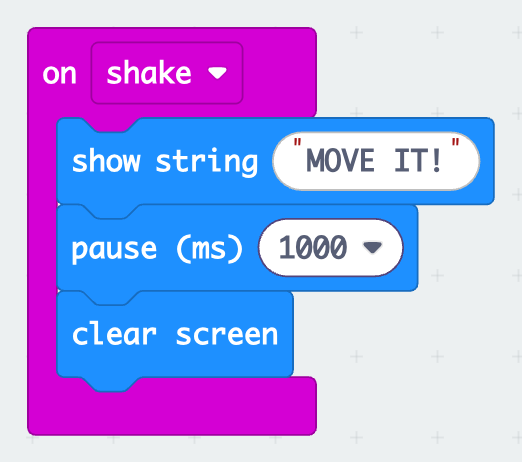
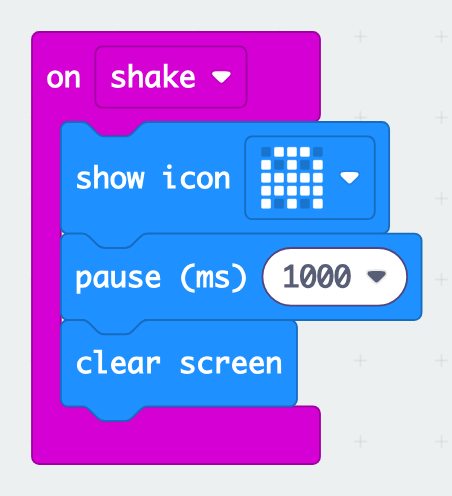
KS3 DT: CLEAR AUDIT BLOCKER 3 - L2 Rung 4 now teaches an effect the device actually produces.
Measured in the MakeCode simulator (probe-microbit-showstring.js): a multi-character 'show string' scrolls OFF and leaves the display blank, so the taught pause+clear were unobservable and three different programs were indistinguishable. Replaced the scrolling string with 'show icon' - with the pause the ghost holds ~800ms then clears; with the pause DELETED it never renders at all (0 LEDs across a 100ms-sampled run). The rung's fail state goes from invisible to the starkest in the ladder, and its hint becomes true.

Chose the GHOST icon, not the heart: Rung 2 already shows a heart on button A, so a heart here would have read as a repeat (caught by a false-positive in my own harness). Rung retitled 'The Vanishing Ghost'.

Updated together so nothing contradicts: rung title/target/test/hint (test now instructs pupils to DELETE the pause and see nothing, then restore it); rung4.png regenerated from the real editor (make-rung4-image.js, verified by block text); exit Parsons prompt + block + explain (block positions unchanged so the Lehmer key a:10 still marks correct - re-verified live); recap r-203 stem, all four options, key explain and misconception labels. contentVersion 2026-07-26b.
[…]

Changed region(s): [[0.031, 0.0606, 0.9602, 0.9697]]

diff --git a/ks3-dt/tools/record-tutorial/qa-l2-rung4.js b/ks3-dt/tools/record-tutorial/qa-l2-rung4.js
@@ -1,0 +1,122 @@
+/* Verify the Rung 4 icon fix in the running platform (audit blocker 3).
+   Checks the pupil actually sees the corrected rung, its image, and that the
+   exit Parsons still marks the SAME key correct after the block text swap.
+   Usage: node qa-l2-rung4.js */
+const { chromium } = require('./node_modules/playwright');
+const path = require('path');
+const fs = require('fs');
+const OUT = path.join(process.env.HOME, 'Desktop/Claude Work/KS3 DT Platform/qa-j1-audit');
+fs.mkdirSync(OUT, { recursive: true });
+const URL = 'http://localhost:8096/ks3-dt/platform/index.html?class=Demo-8A&as=anya';
+const sleep = ms => new Promise(r => setTimeout(r, ms));
+const FAILS = [];
+const check = (c, m) => { console.log((c ? '  PASS ' : '  FAIL ') + m); if (!c) FAILS.push(m); };
+
+(async () => {
+  const browser = await chromium.launch({ headless: true });
+  const page = await browser.newPage({ viewport: { width: 1440, height: 900 }, deviceScaleFactor: 2 });
+  const errs = [];
+  page.on('console', m => { if (m.type() === 'error') errs.push(m.text()); });
+  page.on('pageerror', e => errs.push('PAGEERROR ' + e.message));
+
+  await page.goto(URL, { waitUntil: 'domcontentloaded' });
+  await sleep(1500);
+  await page.evaluate(() => localStorage.clear());       // also drops stale ks3dt-content:* caches
+  await page.reload({ waitUntil: 'domcontentloaded' });
+  await sleep(2200);
+  await page.evaluate(() => {
+    const db = JSON.parse(localStorage.getItem('ks3dt-dev'));
+    const now = Math.floor((Date.now() - 1767225600000) / 60000);
+    for (const n of ['1', '2']) db.locks['Demo-8A'][n] = { u: now, on: 1 };
+    localStorage.setItem('ks3dt-dev', JSON.stringify(db));
+  });
+  await page.reload({ waitUntil: 'domcontentloaded' });
+  await sleep(2600);
+  await page.evaluate(() => { const b = document.querySelector('.intro-skip, .intro-overlay button'); if (b) b.click(); });
+  await sleep(600);
+
+  const ver = await page.evaluate(() => window.App.state.contentVersion);
+  console.log('  contentVersion in app:', ver);
+
+  await page.evaluate(() => Array.from(document.querySelectorAll('.tile')).find(e => /Make It Move/i.test(e.textContent)).click());
+  await sleep(2200);
+
+  /* walk to the ladder */
+  let sawLadder = false;
+  for (let i = 0; i < 70; i++) {
+    const st = await page.evaluate(() => {
+      if (document.querySelector('.rung, [class*="rung"]')) return 'ladder';
+      const pop = document.querySelector('.badge-pop button'); if (pop) { pop.click(); return 'pop'; }
+      const h = document.querySelector('.chunk-host'); if (!h) return 'none';
+      const cta = h.querySelector('.dossier-cta'); if (cta && !cta.hidden) { cta.click(); return 'cta'; }
+      const sk = h.querySelector('.dossier-skip'); if (sk) { sk.click(); return 'skip'; }
+      const vid = Array.from(h.querySelectorAll('button')).find(b => /Done watching/i.test(b.textContent) && b.offsetParent);
+      if (vid) { vid.click(); return 'video'; }
+      const opt = h.querySelector('.q-opt:not(:disabled)'); if (opt) { opt.click(); return 'a'; }
+      const nxt = Array.from(h.querySelectorAll('button')).find(b => /Next|Finish|Start|Continue|Warm up|Begin|Ready/i.test(b.textContent) && !b.disabled && b.offsetParent);
+      if (nxt) { nxt.click(); return 'n'; }
+      return 'w';
+    });
+    if (st === 'ladder') { sawLadder = true; break; }
+    await sleep(800);
+  }
+  check(sawLadder, 'reached the Signal Relay Ladder');
+
+  /* climb: the ladder opens on an intro card, then one rung at a time.
+     Advance until Rung 4's card is the one on screen. */
+  let onRung4 = false;
+  for (let i = 0; i < 40; i++) {
+    const txt = await page.evaluate(() => (document.querySelector('.chunk-host') || {}).textContent || '');
+    if (/Vanishing Ghost/.test(txt)) { onRung4 = true; break; }
+    await page.evaluate(() => {
+      const h = document.querySelector('.chunk-host');
+      if (!h) return;
+      const btn = Array.from(h.querySelectorAll('button')).find(b =>
+        !b.disabled && b.offsetParent &&
+        /Start climbing|Next rung|Got it|We did it|Done|Continue|Nailed it|It works|It worked on the device/i.test(b.textContent) &&
+        !/hint|stuck|help/i.test(b.textContent));
+      if (btn) { btn.click(); return; }
+      const conf = h.querySelector('.confirm-step:not(:disabled)');
+      if (conf) conf.click();
+    });
+    await sleep(750);
+  }
+  check(onRung4, 'climbed to Rung 4');
+  await page.screenshot({ path: path.join(OUT, 'l2-rung4-card.png'), fullPage: true });
+
+  const body = await page.evaluate(() => (document.querySelector('.chunk-host') || {}).textContent || '');
+  check(/Vanishing Ghost/.test(body), 'Rung 4 is titled "The Vanishing Ghost"');
+  check(!/MOVE IT!/.test(body), 'the old "MOVE IT!" string is gone from the ladder');
+  check(/ghost icon/i.test(body), 'the rung asks for the GHOST icon (not Rung 2\'s heart)');
+  check(!/the words wipe/i.test(body), 'the false "the words wipe" claim is gone');
+
+  /* the regenerated image is actually referenced and loads */
+  const img = await page.evaluate(async () => {
+    const el = Array.from(document.querySelectorAll('img')).find(i => /rung4\.png/.test(i.src));
+    if (!el) return null;
+    await new Promise(r => { if (el.complete) return r(); el.onload = r; el.onerror = r; });
+    return { src: el.src, w: el.naturalWidth, h: el.naturalHeight };
+  });
+  check(!!img && img.w > 0, 'rung4.png loads in the rung card' + (img ? ' (' + img.w + 'x' + img.h + ')' : ''));
+  await page.screenshot({ path: path.join(OUT, 'l2-rung4-fixed.png'), fullPage: true });
+
+  /* Parsons: same key (a:10), new block text - build the correct order and expect Correct */
+  const parsons = await page.evaluate(async () => {
+    const r = await window.App.call('mark', { lessonId: 'j1-02', itemId: 'ex2-p', choice: 10 });
+    return r;
+  });
+  check(parsons && parsons.ok && parsons.correct === true, 'exit Parsons still marks a:10 CORRECT after the block swap');
+  check(/ghost/i.test((parsons && parsons.explain) || ''), 'parsons explanation matches the new ghost program');
+
+  /* r-203 marks the new option 0 correct and no longer claims a scroll */
+  const recap = await page.evaluate(async () => window.App.call('mark', { lessonId: 'j1-02', itemId: 'r-203', choice: 0 }));
+  const recapOk = recap && recap.ok;
+  check(!recapOk || recap.correct === true, 'recap r-203: option 0 is the keyed answer' + (recapOk ? '' : ' (not markable via lesson route - checked in dev-keys instead)'));
+
+  const realErrs = errs.filter(e => !/l2-tutorial|\.mp4|poster/.test(e));
+  check(realErrs.length === 0, 'zero console errors: ' + JSON.stringify(realErrs.slice(0, 3)));
+
+  console.log('\n' + (FAILS.length ? 'FAILURES:\n- ' + FAILS.join('\n- ') : 'ALL RUNG 4 CHECKS PASSED'));
+  await browser.close();
+  process.exit(FAILS.length ? 1 : 0);
+})().catch(e => { console.error('QA CRASHED:', e.message); process.exit(1); });

diff --git a/ks3-dt/tools/record-tutorial/probe-microbit-showstring.js b/ks3-dt/tools/record-tutorial/probe-microbit-showstring.js
@@ -22,8 +22,21 @@ const OUT = path.join(process.env.HOME, 'Desktop/Claude Work/KS3 DT Platform/qa-
 fs.mkdirSync(OUT, { recursive: true });
 const HEADED = process.argv.includes('--headed');
 
+/* --set icon : the PROPOSED replacement for Rung 3 - is the pause
+   observably load-bearing when the display block is an ICON rather than a
+   scrolling string? (showIcon renders and returns; we need to know how long
+   the heart actually survives with and without the explicit pause.) */
+const ICON_VARIANTS = [
+  { id: 'E-icon-only', label: 'show icon heart only (nothing after it)',
+    code: 'basic.showIcon(IconNames.Heart)\n' },
+  { id: 'F-icon-pause-clear', label: 'show icon + pause 1000 + clear screen  <-- PROPOSED correct answer',
+    code: 'basic.showIcon(IconNames.Heart)\nbasic.pause(1000)\nbasic.clearScreen()\n' },
+  { id: 'G-icon-clear-nopause', label: 'show icon + clear screen (pause DELETED) <-- the fail state pupils must see',
+    code: 'basic.showIcon(IconNames.Heart)\nbasic.clearScreen()\n' }
+];
+
 /* the exact programs L2 Rung 3 distinguishes between */
-const VARIANTS = [
+const STRING_VARIANTS = [
   { id: 'A-showstring-only', label: 'show string only (no pause, no clear)',
     code: 'basic.showString("HELLO")\n' },
   { id: 'B-taught-answer', label: 'show string + pause 1000 + clear screen  <-- what L2 teaches as CORRECT',
@@ -34,8 +47,11 @@ const VARIANTS = [
     code: 'basic.showString("A")\n' }
 ];
 
+const VARIANTS = process.argv.includes('--set') && process.argv[process.argv.indexOf('--set') + 1] === 'icon'
+  ? ICON_VARIANTS : STRING_VARIANTS;
+
 const SAMPLE_MS = 100;
-const RUN_MS = 14000;
+const RUN_MS = process.argv.includes('--set') ? 8000 : 14000;
 
 async function readLeds(drv) {
   const f = drv.simFrame();
@@ -100,6 +116,8 @@ async function readLeds(drv) {
     const tailMaxLit = Math.max(...tail.map(s => s.lit));
     const tailMaxBright = Math.max(...tail.map(s => s.b));
 
+    const litSamples = series.filter(s => s.lit > 0).length;
+    const litMs = litSamples * SAMPLE_MS;
     const verdict = tailMaxLit === 0
       ? 'DISPLAY ENDS BLANK'
       : 'DISPLAY STILL SHOWING (' + tailMaxLit + ' LEDs)';
@@ -109,10 +127,11 @@ async function readLeds(drv) {
     log('  first lit at         :', firstLit ? firstLit.t + 'ms' : 'never');
     log('  last lit at          :', lastLit ? lastLit.t + 'ms' : 'never');
     log('  final 3s: max lit    :', tailMaxLit, '| max brightness', tailMaxBright);
+    log('  total time lit       : ~' + litMs + 'ms');
     log('  VERDICT              :', verdict);
 
     await page.screenshot({ path: path.join(OUT, 'microbit-' + v.id + '-end.png') });
-    results.push({ id: v.id, label: v.label, ledCount, peak,
+    results.push({ id: v.id, label: v.label, ledCount, peak, litMs,
       firstLitMs: firstLit ? firstLit.t : null, lastLitMs: lastLit ? lastLit.t : null,
       tailMaxLit, tailMaxBright, verdict, series });
   }
@@ -121,7 +140,8 @@ async function readLeds(drv) {
 
   console.log('\n================ SUMMARY ================');
   for (const r of results) {
-    console.log(r.id.padEnd(20), '| peak lit', String(r.peak).padStart(2),
+    console.log(r.id.padEnd(22), '| peak lit', String(r.peak).padStart(2),
+      '| lit for ~' + String(r.litMs).padStart(5) + 'ms',
       '| last lit', String(r.lastLitMs).padStart(6) + 'ms',
       '|', r.verdict);
   }
@@ -135,6 +155,13 @@ async function readLeds(drv) {
     console.log('So the pause+clear are     ', identical ? 'UNOBSERVABLE (audit blocker CONFIRMED)' : 'observable (audit blocker NOT confirmed)');
   }
   if (d) console.log('Single character "A"       ', d.tailMaxLit > 0 ? 'STAYS on the display (' + d.tailMaxLit + ' LEDs) - persists, unlike a scrolled string' : 'also ends blank');
+  const f2 = results.find(r => r.id === 'F-icon-pause-clear');
+  const g2 = results.find(r => r.id === 'G-icon-clear-nopause');
+  if (f2 && g2) {
+    const diff = f2.litMs - g2.litMs;
+    console.log('\nICON PROPOSAL: with pause the heart is lit ~' + f2.litMs + 'ms; with the pause DELETED ~' + g2.litMs + 'ms.');
+    console.log('Difference: ~' + diff + 'ms - ' + (diff >= 600 ? 'CLEARLY VISIBLE to a pupil. The pause is genuinely load-bearing.' : 'TOO SMALL - this replacement would have the same flaw.'));
+  }
   console.log('\nScreenshots + raw series in', OUT);
 
   await browser.close();

diff --git a/ks3-dt/tools/record-tutorial/make-rung4-image.js b/ks3-dt/tools/record-tutorial/make-rung4-image.js
@@ -1,0 +1,65 @@
+/* Regenerate assets/img/l2/rung4.png for L2's "Rung 4 — The Vanishing Heart".
+   The old image showed `show string "MOVE IT!"`, which the 26 Jul audit found
+   teaches an effect the device does not produce (a scrolled string clears
+   itself, so the pause+clear are invisible). The rung now uses show icon,
+   where deleting the pause genuinely shows the pupil nothing.
+   Usage: node make-rung4-image.js */
+const path = require('path');
+const { chromium } = require('./node_modules/playwright');
+const { MakeCode, sleep } = require('./lib/driver');
+
+const OUT = path.join(__dirname, '..', '..', 'platform', 'assets', 'img', 'l2', 'rung4.png');
+const CODE = 'input.onGesture(Gesture.Shake, function () {\n' +
+  '    basic.showIcon(IconNames.Ghost)\n' +
+  '    basic.pause(1000)\n' +
+  '    basic.clearScreen()\n' +
+  '})\n';
+
+(async () => {
+  const browser = await chromium.launch({ headless: true });
+  const page = await browser.newPage({ viewport: { width: 1500, height: 950 }, deviceScaleFactor: 2 });
+  const log = (...a) => console.log('[img]', ...a);
+  const drv = new MakeCode(page, log);
+
+  await drv.openEditor();
+  await sleep(4000);
+  await drv.dismissDialogs();
+  await drv.setProgram(CODE);      // leaves the editor on the Blocks tab
+  await sleep(3500);
+  await drv.dismissDialogs();
+
+  /* the on-shake stack is the only top-level block once the default
+     on-start/forever have been replaced by setProgram */
+  const box = await page.evaluate(() => {
+    const stacks = Array.from(document.querySelectorAll('.blocklyBlockCanvas > g.blocklyDraggable'))
+      .filter(g => !g.closest('.blocklyFlyout'));
+    let best = null;
+    for (const g of stacks) {
+      const r = g.getBoundingClientRect();
+      if (r.width < 60 || r.height < 40) continue;
+      if (!best || r.width * r.height > best.w * best.h) best = { x: r.x, y: r.y, w: r.width, h: r.height };
+    }
+    return best;
+  });
+  if (!box) throw new Error('no block stack found on the canvas');
+  log('stack bbox', JSON.stringify(box));
+
+  const pad = 16;
+  await page.screenshot({
+    path: OUT,
+    clip: { x: Math.max(0, box.x - pad), y: Math.max(0, box.y - pad), width: box.w + pad * 2, height: box.h + pad * 2 }
+  });
+  log('wrote', OUT);
+
+  /* prove the rendered blocks say what we think they say */
+  const text = await page.evaluate(() => {
+    const norm = s => (s || '').replace(/[- ]/g, ' ').replace(/\s+/g, ' ').trim();
+    return Array.from(document.querySelectorAll('.blocklyBlockCanvas .blocklyText')).map(e => norm(e.textContent)).join(' | ');
+  });
+  log('block text:', text);
+  const ok = /shake/i.test(text) && /pause/i.test(text) && /clear screen/i.test(text) && !/show string/i.test(text);
+  console.log(ok ? 'VERIFIED: on shake + icon + pause + clear screen, no show string'
+                 : 'WARNING: unexpected block text - check the image by eye');
+  await browser.close();
+  process.exit(ok ? 0 : 1);
+})().catch(e => { console.error('IMAGE BUILD FAILED:', e.message); process.exit(1); });

diff --git a/ks3-dt/platform/server/PathB_Index.html b/ks3-dt/platform/server/PathB_Index.html
@@ -2409,7 +2409,14 @@ window.OLS_TRANSPORT = {
   };
   App.toast = function (msg, ms) {
     var t = $('#toast');
-    t.textContent = msg; t.hidden = false;
+    /* Engine sources are ASCII, so callers write copy as HTML entities
+       (&mdash;, &#127914;). textContent showed those raw on screen - pupils
+       literally read "Rung cleared &mdash; signal locked in." Decode via a
+       detached TEXTAREA: its content is raw text, so entities resolve but no
+       markup is ever built, and we still assign with textContent. */
+    var dec = document.createElement('textarea');
+    dec.innerHTML = String(msg == null ? '' : msg);
+    t.textContent = dec.value; t.hidden = false;
     clearTimeout(t._timer);
     t._timer = setTimeout(function () { t.hidden = true; }, ms || 2600);
   };

diff --git a/ks3-dt/platform/app.js b/ks3-dt/platform/app.js
@@ -436,7 +436,14 @@
   };
   App.toast = function (msg, ms) {
     var t = $('#toast');
-    t.textContent = msg; t.hidden = false;
+    /* Engine sources are ASCII, so callers write copy as HTML entities
+       (&mdash;, &#127914;). textContent showed those raw on screen - pupils
+       literally read "Rung cleared &mdash; signal locked in." Decode via a
+       detached TEXTAREA: its content is raw text, so entities resolve but no
+       markup is ever built, and we still assign with textContent. */
+    var dec = document.createElement('textarea');
+    dec.innerHTML = String(msg == null ? '' : msg);
+    t.textContent = dec.value; t.hidden = false;
     clearTimeout(t._timer);
     t._timer = setTimeout(function () { t.hidden = true; }, ms || 2600);
   };
